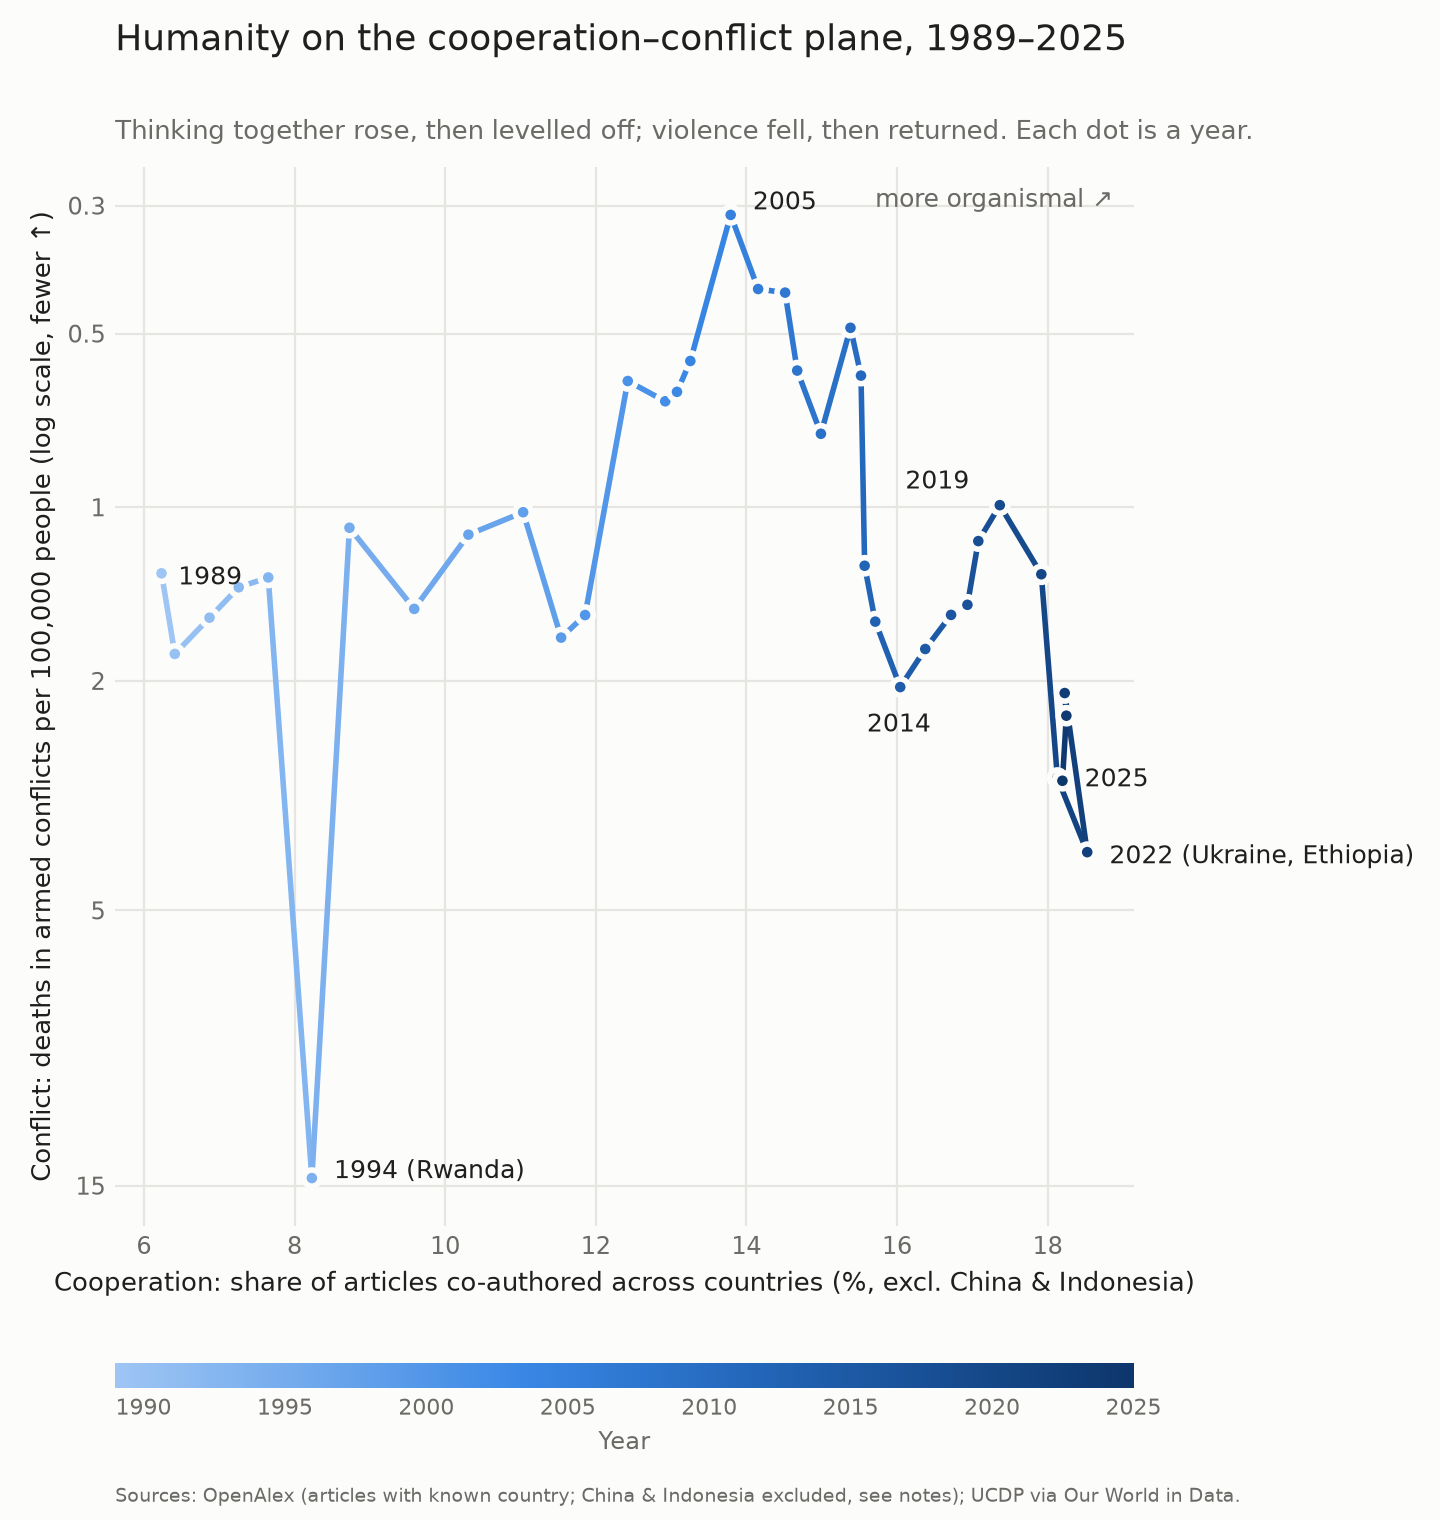
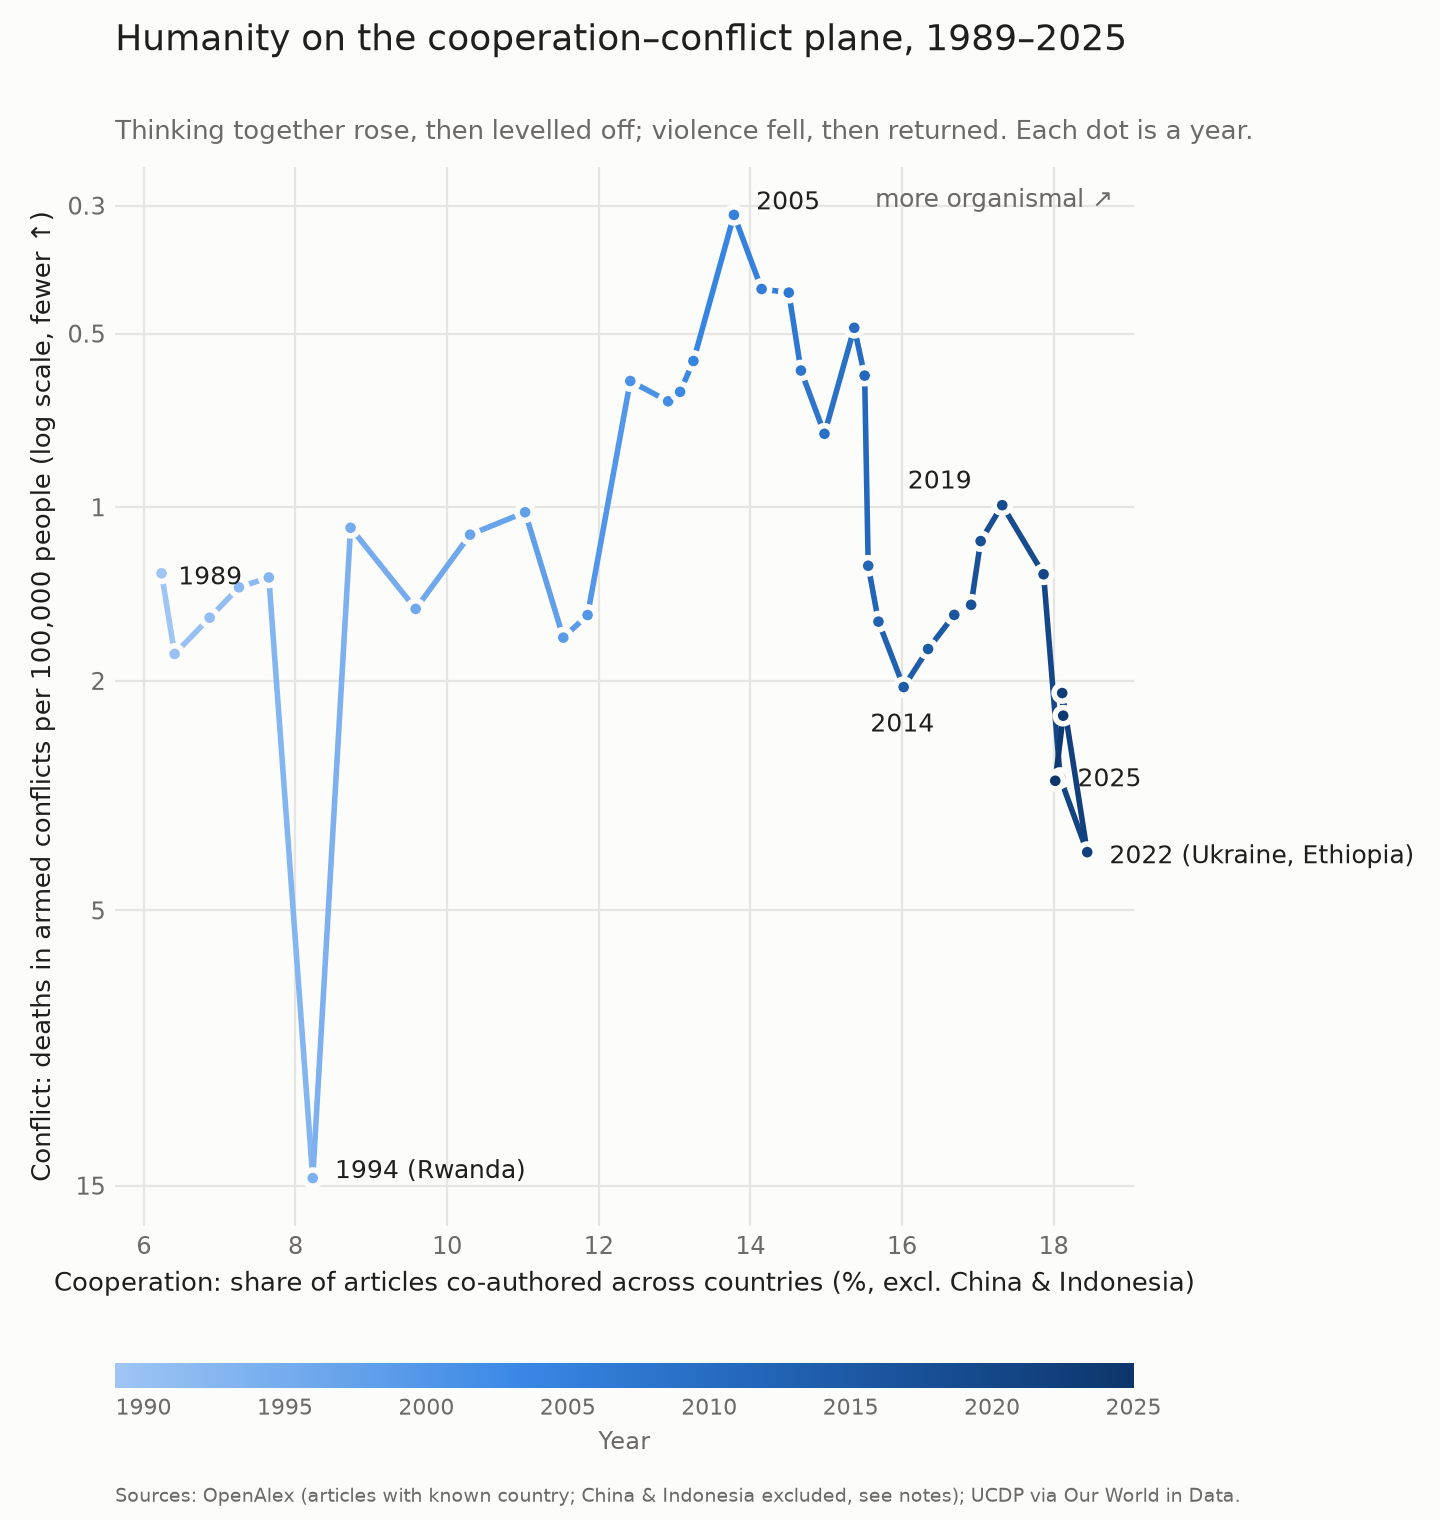
Weekly run 2026-10-26: all checks passed

diff --git a/results/weekly/2026-10-26/SUMMARY.md b/results/weekly/2026-10-26/SUMMARY.md
@@ -10,12 +10,12 @@
 | owid_ozone_depleting_substance_consumption.csv | ok | no | 5642 |
 | owid_foreign_aid_share_of_gni.csv | ok | no | 2114 |
 | owid_ucdp_death_rate_armed_conflicts.csv | ok | no | 7561 |
-| openalex_articles_multicountry_by_year.json | ok | no | 200 |
-| openalex_articles_anycountry_by_year.json | ok | no | 200 |
-| openalex_articles_multicountry_by_year_excl_CN_ID.json | ok | no | 200 |
-| openalex_articles_anycountry_by_year_excl_CN_ID.json | ok | no | 200 |
-| openalex_single_country_2020_by_country.json | ok | no | 200 |
-| openalex_single_country_2025_by_country.json | ok | no | 200 |
+| openalex_articles_multicountry_by_year.json | ok | yes | 200 |
+| openalex_articles_anycountry_by_year.json | ok | yes | 200 |
+| openalex_articles_multicountry_by_year_excl_CN_ID.json | ok | yes | 200 |
+| openalex_articles_anycountry_by_year_excl_CN_ID.json | ok | yes | 200 |
+| openalex_single_country_2020_by_country.json | ok | yes | 200 |
+| openalex_single_country_2025_by_country.json | ok | yes | 200 |
 | hurdat2_atlantic.txt | ok | no | 1988 |
 | wikipedia_pageviews_gwi.csv | ok | no | 89136 |
 | wikipedia_pageviews_gwi_calibration.csv | ok | no | 104289 |
@@ -52,6 +52,7 @@ Not refreshed by design (manual or hand-coded): NHC track errors, DAC event date
 ```
 
 - `organismality_plane`: unchanged since 2026-10-23
+  - figure `analysis/organismality_plane.png` changed; copy kept in this folder
 - `information_time_nhc`: changed since 2026-10-23
 
 ```diff
@@ -73,4 +74,4 @@ Not refreshed by design (manual or hand-coded): NHC track errors, DAC event date
 
 ## Tests
 
-- pytest: 57 passed in 8.88s
+- pytest: 57 passed in 5.64s
